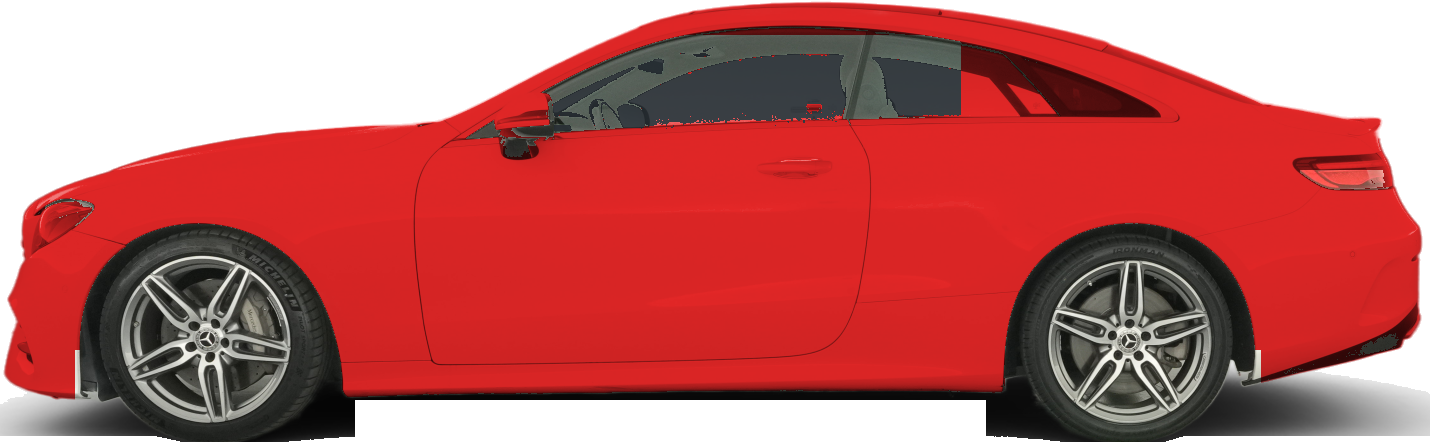
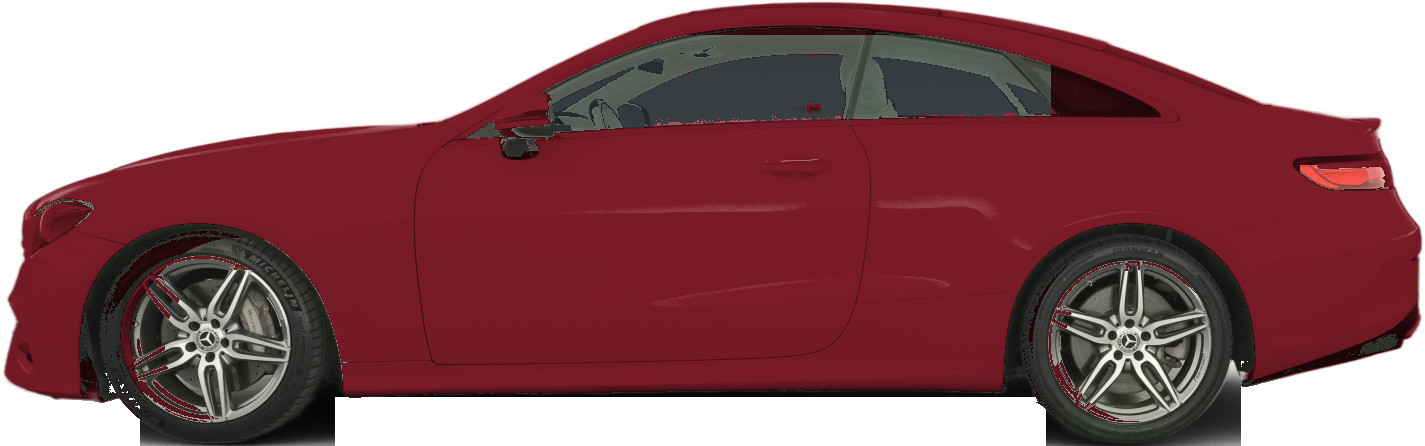
fix(garage): restrict to official 6 Mercedes factory colors and deliver clean studio underbody cutout

diff --git a/frontend/src/lib/vehicleStyle.ts b/frontend/src/lib/vehicleStyle.ts
@@ -33,16 +33,12 @@ export interface VehicleColorPreset {
 }
 
 export const VEHICLE_COLOR_PRESETS: VehicleColorPreset[] = [
-  { id: 'white', name: 'Polar White', hex: '#f8fafc', labelZh: '極地白 (原廠)', labelEn: 'Polar White' },
-  { id: 'obsidian', name: 'Obsidian Black', hex: '#1e293b', labelZh: '曜石黑', labelEn: 'Obsidian Black' },
-  { id: 'grey', name: 'Selenite Grey', hex: '#64748b', labelZh: '月光石灰', labelEn: 'Selenite Grey' },
-  { id: 'silver', name: 'Iridium Silver', hex: '#94a3b8', labelZh: '銥銀', labelEn: 'Iridium Silver' },
-  { id: 'blue', name: 'Lunar Blue', hex: '#1d4ed8', labelZh: '寶石藍', labelEn: 'Lunar Blue' },
-  { id: 'red', name: 'Cardinal Red', hex: '#dc2626', labelZh: '經典紅', labelEn: 'Cardinal Red' },
-  { id: 'green', name: 'Emerald Green', hex: '#15803d', labelZh: '祖母綠', labelEn: 'Emerald Green' },
-  { id: 'gold', name: 'Champagne Gold', hex: '#d97706', labelZh: '香檳金', labelEn: 'Champagne Gold' },
-  { id: 'orange', name: 'Sunset Orange', hex: '#ea580c', labelZh: '熔岩橘', labelEn: 'Sunset Orange' },
-  { id: 'purple', name: 'Midnight Purple', hex: '#7e22ce', labelZh: '魅夜紫', labelEn: 'Midnight Purple' },
+  { id: 'white', name: 'Polar White (149)', hex: '#f8fafc', labelZh: '極地白 (149)', labelEn: 'Polar White (149)' },
+  { id: 'obsidian', name: 'Obsidian Black (197)', hex: '#1a1f2c', labelZh: '曜石黑 (197)', labelEn: 'Obsidian Black (197)' },
+  { id: 'grey', name: 'Selenite Grey (992)', hex: '#525a65', labelZh: '月光石灰 (992)', labelEn: 'Selenite Grey (992)' },
+  { id: 'silver', name: 'Iridium Silver (775)', hex: '#a8b0b8', labelZh: '銥銀 (775)', labelEn: 'Iridium Silver (775)' },
+  { id: 'blue', name: 'Lunar Blue (893)', hex: '#1b2a47', labelZh: '月藍 (893)', labelEn: 'Lunar Blue (893)' },
+  { id: 'red', name: 'designo Cardinal Red (996)', hex: '#7a1c27', labelZh: '風情紅 (996)', labelEn: 'Cardinal Red (996)' },
 ]
 
 export const SILHOUETTE_TO_ARCHETYPE: Record<VehicleSilhouette, VehicleArchetype> = {
@@ -198,17 +194,18 @@ export function resolveE400ColorPhoto(color?: string | null): string {
   const norm = color.toLowerCase().trim()
 
   const PRESET_FILES: Record<string, string> = {
-    '#1e293b': 'obsidian',
     '#f8fafc': 'white',
     '#ffffff': 'white',
+    '#1a1f2c': 'obsidian',
+    '#1e293b': 'obsidian',
+    '#525a65': 'grey',
     '#64748b': 'grey',
+    '#a8b0b8': 'silver',
     '#94a3b8': 'silver',
+    '#1b2a47': 'blue',
     '#1d4ed8': 'blue',
+    '#7a1c27': 'red',
     '#dc2626': 'red',
-    '#15803d': 'green',
-    '#d97706': 'gold',
-    '#ea580c': 'orange',
-    '#7e22ce': 'purple',
   }
 
   if (PRESET_FILES[norm]) {

diff --git a/frontend/src/lib/vehicleStyle.test.ts b/frontend/src/lib/vehicleStyle.test.ts
@@ -65,7 +65,7 @@ describe('inferVehicleSilhouette & inferVehicleArchetype', () => {
   })
 
   it('provides rich automotive color presets', () => {
-    expect(VEHICLE_COLOR_PRESETS.length).toBeGreaterThanOrEqual(8)
+    expect(VEHICLE_COLOR_PRESETS.length).toBeGreaterThanOrEqual(6)
     expect(VEHICLE_COLOR_PRESETS.some((c) => c.id === 'obsidian')).toBe(true)
     expect(VEHICLE_COLOR_PRESETS.some((c) => c.id === 'red')).toBe(true)
     expect(VEHICLE_COLOR_PRESETS.some((c) => c.id === 'blue')).toBe(true)

diff --git a/frontend/src/features/my/MyPage.test.tsx b/frontend/src/features/my/MyPage.test.tsx
@@ -301,8 +301,8 @@ describe('MyPage', () => {
 
     expect(update).toHaveBeenCalledWith(
       expect.objectContaining({
-        garage: [expect.objectContaining({ color: '#dc2626' })],
-        vehicle: expect.objectContaining({ color: '#dc2626' }),
+        garage: [expect.objectContaining({ color: '#7a1c27' })],
+        vehicle: expect.objectContaining({ color: '#7a1c27' }),
       }),
     )
   })
